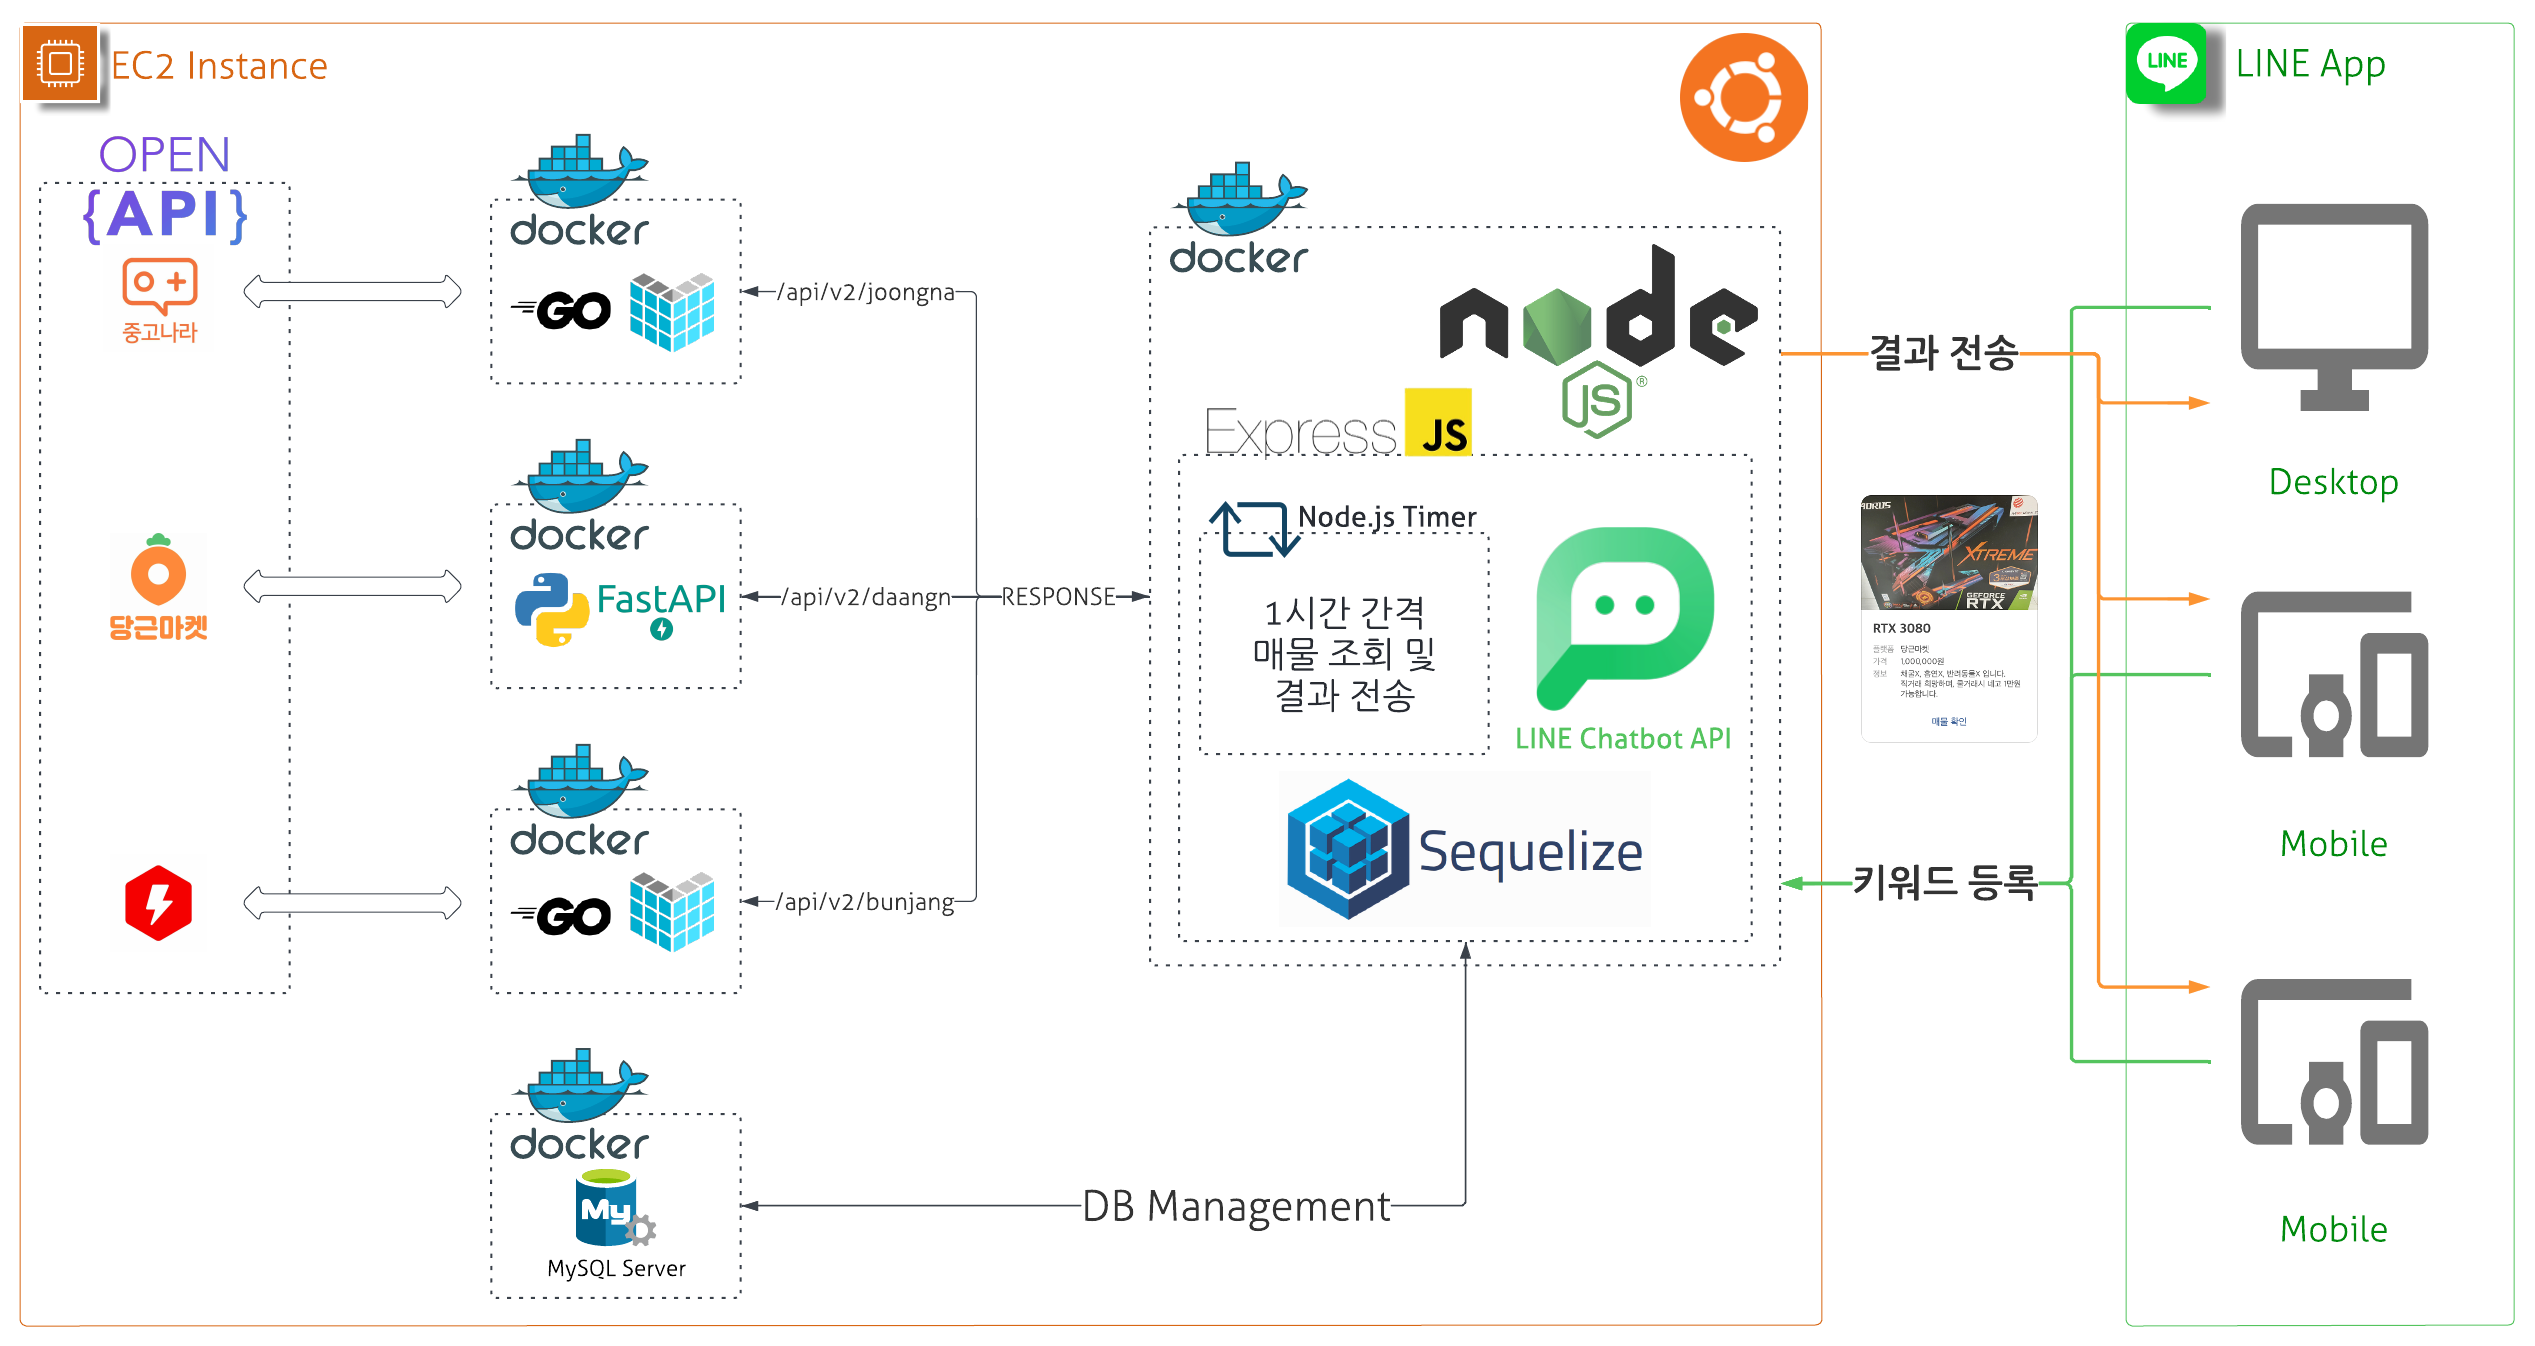
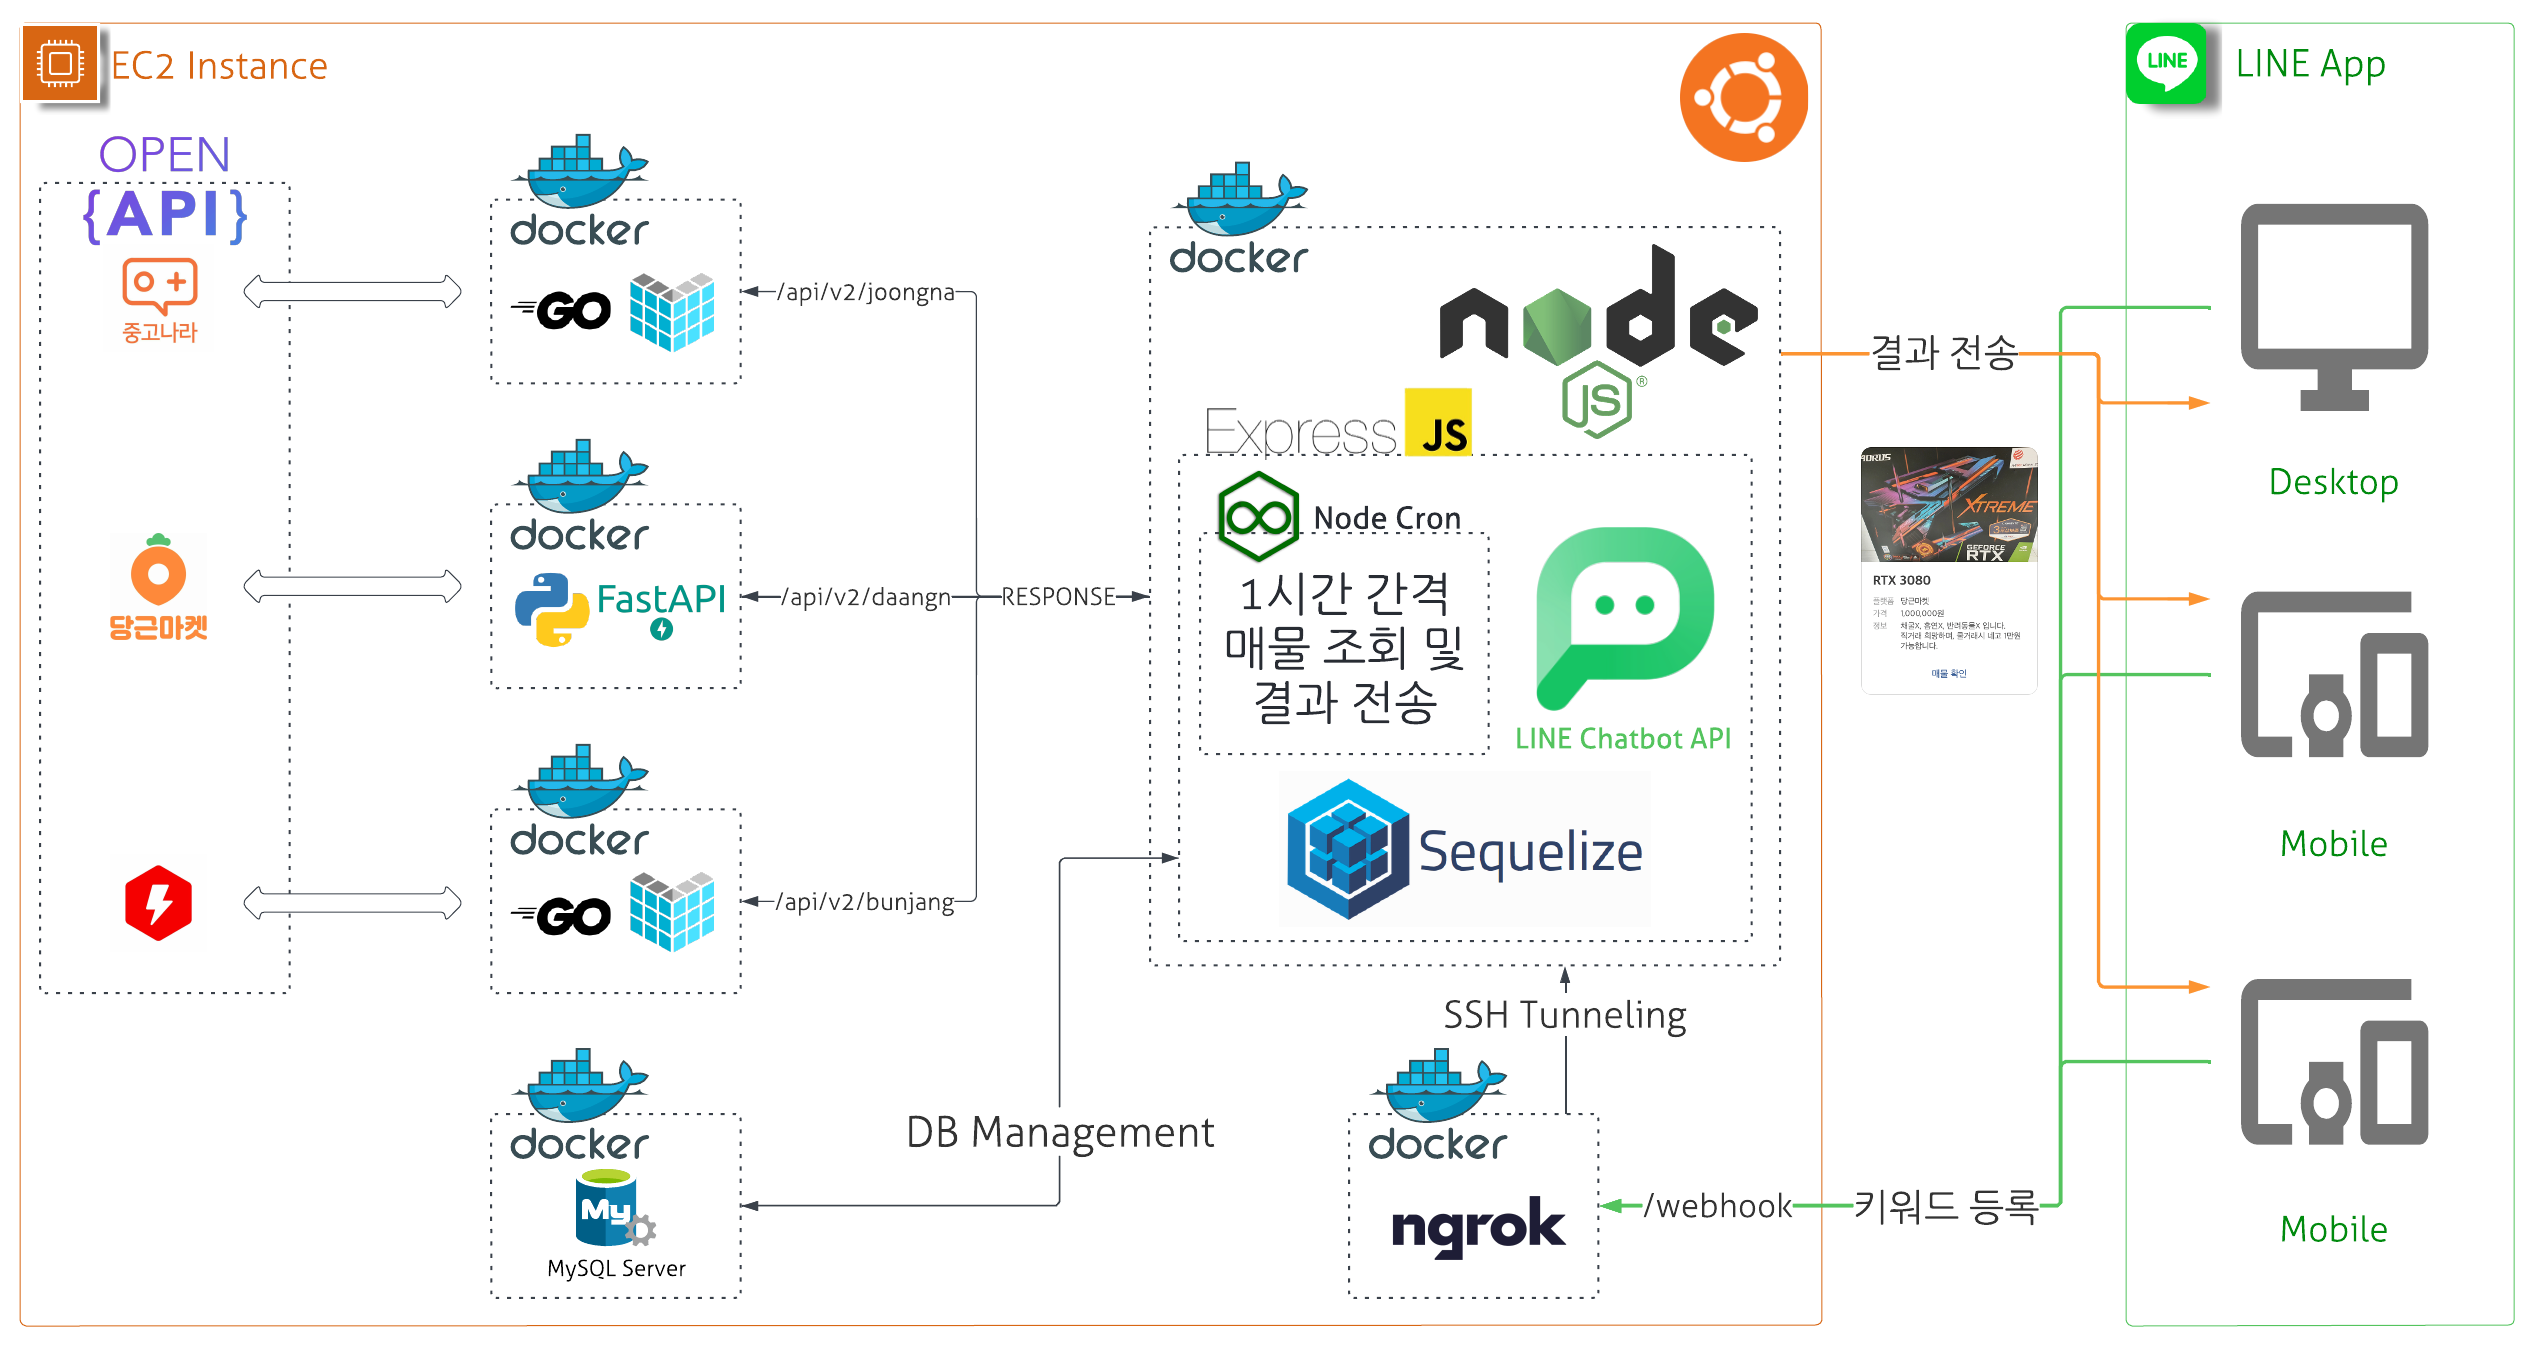
DOCS: write README.md

diff --git a/README.md b/README.md
@@ -1,8 +1,17 @@
-![node-16.14.2](https://img.shields.io/badge/Node-16.14.2-green?style=for-the-badge)
+![node-17.9.0](https://img.shields.io/badge/Node-17.9.0-green)
+![express-4.18.1](https://img.shields.io/badge/Express-4.18.1-green)
+![sequelize-6.20.0](https://img.shields.io/badge/Sequelize-6.20.0-green)
+
+![go-1.17.3](https://img.shields.io/badge/Go-1.17.3-blue)
+![goecho-4.7.2](https://img.shields.io/badge/Echo-4.7.2-blue)
+![python-latest](https://img.shields.io/badge/Python-latest-blue)
+![fastapi-0.77.1](https://img.shields.io/badge/Fastapi-0.77.1-blue)
+
+![mysql-5.7](https://img.shields.io/badge/Mysql-5.7-yellowgreen)
 
 <div align="center"><img src="./readme_logo.png" width="20%" height="20%"></div>
 
-## 매무리 봇 (Mamuri-bot)
+# 매무리 봇 (Mamuri-bot)
 
 사용자에게 입력받은 키워드를 통해 3곳의 중고매물 사이트(중고나라, 당근마켓, 번개장터)에 매물을 감지, 알림을 전송하는 봇입니다.
 
@@ -19,27 +28,94 @@
 
 - [Node.js](https://nodejs.org/ko/)
 - [Express](https://expressjs.com/ko/)
+- [Go](https://go.dev/)
+- [Echo](https://echo.labstack.com)
+- [Python](https://python.org)
+- [FastAPI](https://fastapi.tiangolo.com/)
+- [ngrok](https://ngrok.com)
 
 ## Getting Started
 
 ### Prerequisites
 
-- Node.js
+Need to installation docker and docker-compose
+- [Docker](https://www.docker.com/get-started/)
+- [Docker-compose](https://docs.docker.com/compose/install/)
+
+Need to write secret
+- `mamuri-bot/database/mysql_init/.env`
+   ```dotenv
+   # Database Configuration
+   TZ=Asia/Seoul
+   MYSQL_HOST={YOUR_MYSQL_HOST}
+   MYSQL_PORT={YOUR_MYSQL_PORT}
+   MYSQL_ROOT_PASSWORD={YOUR_MYSQL_ROOT_PASSWORD}
+   ```
+
+- `mamuri-bot/joongna/config/.env`
+   ```dotenv
+   # Secret Configuration
+   SECRET.CLIENTID={NAVER_API_CLIENT_ID}
+   SECRET.CLIENTSECRET={NAVER_API_CLIENT_SECRET}
+   
+   # Header Configuration
+   HEADER.COOKIE=NID_SES={YOUR_COOKIE}
+   HEADER.USERAGENT={YOUR_SYSTEM_USER_AGENT}
+   ```
+
+- `mamuri-bot/ngrok/ngrok.yml`
+   ```yaml
+   authtoken: { YOUR_NGROK_AUTH_TOKEN }
+   version: 2
+   tunnels:
+     mamuri:
+       proto: http
+       addr: mamuri-server:8080
+   ```
+
+- `mamuri-bot/server/config/.env`
+   ```dotenv
+   channelAccessToken: {YOUR_LINE_CHANNEL_ACCESS_TOKEN}
+   channelId: {YOUR_LINE_CHANNEL_ID}
+   channelSecret: {YOUR_LINE_CHANNEL_SECRET}
+   ```
 
 ### Installation
 
 1. Clone the repository
    ```
-   git clone http://khuhub.khu.ac.kr/2018102211/secondhand-noti-bot
+   git clone http://khuhub.khu.ac.kr/2018102211/mamuri-bot
    ```
-2. Install NPM packages
+2. Put your secret files that you create in prerequisite to
+   ```shell
+   mamuri-bot/database/mysql_init/.env
+   mamuri-bot/joongna/config/.env
+   mamuri-bot/ngrok/ngrok.yml
+   mamuri-bot/server/config/.env
    ```
-   npm install
+3. Executing `deploy.sh` for deployment with docker-compose
+
+   This script will `build` all images automatically and `docker-compose up` on your system
+   ```shell
+   #!/usr/bin/env bash
+   
+   ./deploy.sh
+   
+   # docker build -t daangn-api-server ./daangn/
+   # docker build -t joongna-api-server ./joongna/
+   # docker build -t bunjang-api-server ./bunjang/
+   # docker build -t mamuri-db ./database/
+   # docker build -t mamuri-server ./server/
+   # docker build -t mamuri-ngrok ./ngrok/
+   # docker-compose up -d
    ```
-3. Start Project
+4. Check your ngrok public URL
+   ```shell
+   docker logs mamuri-ngrok
    ```
-   npm start
-   ```
+   ![ngrok_deployment_1](http://khuhub.khu.ac.kr/2018102211/mamuri-bot/uploads/4ccdc73c9efc4c3dc58147f17b992cc6/그림1.png)
+5. Set your public URL to Line chatbot configuration for webhook
+   ![ngrok_deployment_2](http://khuhub.khu.ac.kr/2018102211/mamuri-bot/uploads/5dd076f66629948dd1682fc4054ff459/그림2.png)
 
 ## Contributing
 
